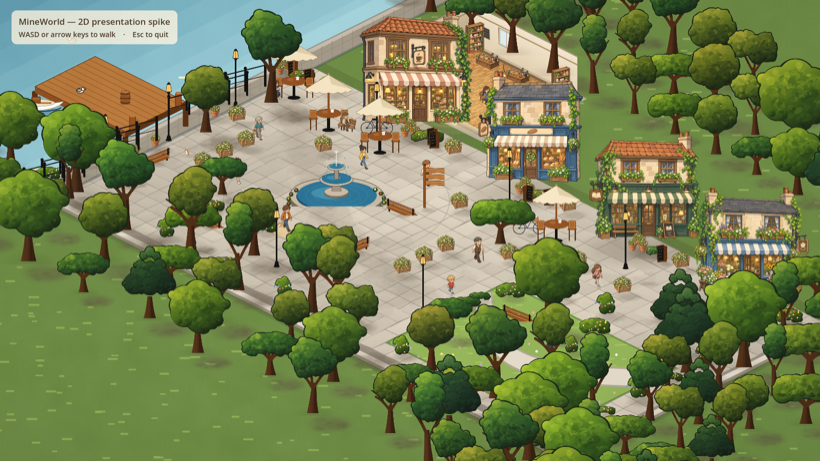
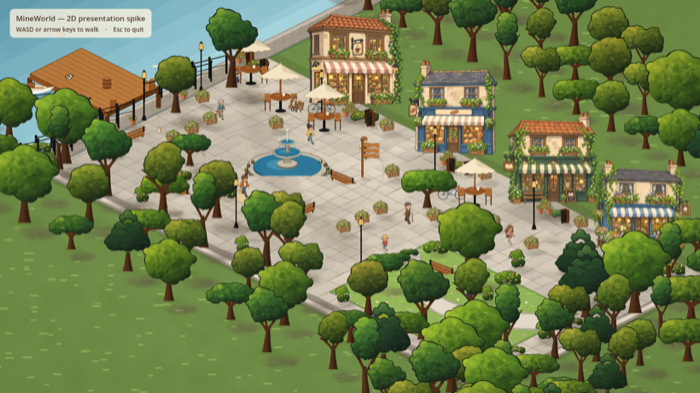
docs: the default 2D style is town (ARC-13)
The operator compared four complete scenes and chose `town`. ARC-13 records
that as ARC-11's decision taken rather than as a recommendation: what was
compared, what distinguishes the choice, and the weakness accepted along with
it.

What distinguishes it is written down so a later reader knows what was chosen
and not merely which name won — a warm key measurably close to the plates
(whole-frame mean 0.513 against 0.517, 4.0% below 0.20 luminance against 4.4%),
cherry blossom against the greens, a varied roofline, and building silhouettes
that differ from each other rather than repeating one mass. Its known weakness
is recorded too: four distinct tree sprites in the shared set, so repetition
shows at wide zoom, and the choice was made with that visible.

The record is explicit that this fixes the default and not the style system. A
World Pack still ships its own Presentation Pack and selects its own style
without touching this choice; nothing privileges `town` in the loader, the
contracts or the renderer bindings, and if a later change makes it hard to
replace then that change is the defect.

The other three variants stay. They are the demonstration that the presentation
layer swaps, which is the substance of ARC-11's split, and `--variant=` remains
the interface.

The spike README's register now states which variant is default and why, and
links onward rather than carrying the reasoning itself.
[…]

Changed region(s): [[0.54, 0.0305, 0.72, 0.3053]]

diff --git a/clients/2d-spike/README.md b/clients/2d-spike/README.md
@@ -1,48 +1,39 @@
 # MineWorld — 2D presentation spike
 
-A walkable slice of one quayside square, built so a human can look at it and
-answer one question: **is this MineWorld's default 2D presentation?**
+A walkable slice of one quayside square, built so a human could look at it and
+answer one question: **is this MineWorld's default 2D presentation?** It is —
+see below.
 
-> ## VIS-2D-1 READY FOR HUMAN STYLE REVIEW
+> ## The default 2D style is `town`
 >
-> Three **default-style candidates**, each complete and playable, **the café is
-> enterable in all of them**, and **the town is in motion** — the crowd walks
-> its routes and gait is driven by distance travelled, so cadence matches
-> speed and feet do not slide. Nothing here is an accepted look — per
-> `ARC-11` the default style is taste and the operator decides it, finally and
-> always. Subjective polishing on this branch has stopped so the target does
-> not move while it is being judged.
->
-> **Recommended candidate: `town`.** It measures closest to the plates on
-> overall key (mean 0.513 against the plate's 0.517, and 4.0% of the frame
-> below 0.20 luminance against 4.4%), and its buildings and planting carry the
-> density the plates have. Its one weakness is that the shared set has only
-> four distinct tree sprites, so repetition shows at wide zoom where `full`'s
-> nine procedural species do not.
+> The operator compared four complete scenes and chose `town`; it is the
+> default and no longer a candidate. What that means, and what distinguishes
+> it, is recorded in [`ARC-13`](../../docs/DECISIONS.md) — read that before
+> changing the look.
 >
 > ```
-> ./mineworld-2d                         the recommended candidate (town)
-> ./mineworld-2d --variant=town          generated cast + the shared asset set
-> ./mineworld-2d --variant=full          generated cast + generated shopfronts and flora
+> ./mineworld-2d                         the default (town)
+> ./mineworld-2d --variant=full          generated cast, shopfronts and flora generated here
 > ./mineworld-2d --variant=people        generated cast, procedural world
-> ./mineworld-2d --variant=procedural    the previous all-procedural build, for comparison
+> ./mineworld-2d --variant=procedural    the earlier all-procedural build
 > ```
+>
+> The other three are kept deliberately. They are the demonstration that the
+> presentation layer swaps, which is the point of
+> [`ARC-11`](../../docs/DECISIONS.md); `--variant=` is the interface, and a
+> change that can only be made to `town` is a change made in the wrong place.
+> This fixes the *default*, not the style system: a World Pack still ships its
+> own Presentation Pack and picks its own style without touching any of this.
 >
 > **Walk into the café.** It is at the left of the shop row; walk north through
-> the doorway and you are inside. There is no loading screen, no popup and no
-> scene change — the room occupies real world coordinates behind the frontage,
-> and the frontage lifts away once you are over the threshold, which is the
-> cutaway an isometric game normally uses. `--drive` checks this and reports
-> `entered=true ... max_step=0.0400 gaps=0`: uniform steps in and out, so the
-> transition is movement rather than a teleport.
+> the doorway and you are inside. No loading screen, no popup, no scene change
+> — the room occupies real world coordinates behind the frontage, and the
+> frontage lifts away once you are over the threshold.
 >
-> Walk around with WASD or the arrow keys. `--shots` writes stills per variant
-> into `shots/<variant>/`; `06_ref_framing.png` in each is framed to match
-> `references/02_cafe_street.png` so the comparison is like for like, and
-> `07_cafe_exterior` / `08_doorway` / `09_interior` are the three steps of
-> going inside.
->
-> The review question is which whole scene, not which asset.
+> Stills for all four variants are in `screenshots/`, rendered at one commit
+> and at matched framing, including one framed to
+> `references/02_cafe_street.png` so the comparison against the plates is like
+> for like.
 
 It is a spike. It requires no kernel changes, contains no semantics — no
 dialogue, no inventory, no networking, no `ActionIntent` — and invents no world

diff --git a/docs/DECISIONS.md b/docs/DECISIONS.md
@@ -923,3 +923,58 @@ enabled; nothing in MineWorld writes YAML, and if a `mineworld create` command e
 is a feature flag and not a new decision. Anchors, aliases and `!include` are supported by the crate
 and are deliberately not used by any pack — a World Pack an author can read is worth more than one
 that avoids repetition.
+
+---
+
+## ARC-13 — The default 2D style is `town`
+
+**Date** 2026-09-27
+
+[`ARC-11`](#arc-11--default-style-is-taste-style-infrastructure-is-architecture) separates the
+default style, which is taste and the operator's to decide, from the style infrastructure, which
+is architecture and proceeds autonomously. This record is that decision taken: **the operator
+compared four complete scenes and chose `town`.** It is no longer a candidate.
+
+**What was compared.** Four art variants of the same walkable square, identical in layout,
+projection, camera, crowd density and scene logic, differing only in which art each role
+resolves to:
+
+| Variant | Art |
+| --- | --- |
+| `town` | generated cast, plus the shared generated set — buildings, props, vegetation, ground |
+| `full` | generated cast, plus shopfronts and planted props generated for the spike |
+| `people` | generated cast over the procedural world |
+| `procedural` | the earlier all-procedural build, as the baseline |
+
+All four were rendered at one commit and at matched framing, including a still framed to
+`presentation/mineworld-default/2D/references/02_cafe_street.png` so the comparison against the
+plates is like for like. The sets are in `clients/2d-spike/screenshots/`, and
+`clients/2d-spike/README.md` gives the launch commands.
+
+**What distinguishes the choice.** `town` carries a warm overall key measurably close to the
+reference plates — whole-frame mean luminance 0.513 against the plates' 0.517, with 4.0% of the
+frame below 0.20 luminance against 4.4%. Beyond the numbers: cherry blossom against the greens,
+a varied roofline of terracotta, slate and tile, and building silhouettes that differ from one
+another rather than repeating one mass. It reads as a place with a history of being built in
+rather than a row of one shop.
+
+**Its known weakness, accepted.** The shared set has four distinct tree sprites, so repetition
+shows at wide zoom where `full`'s nine procedural species do not. The operator chose `town` with
+that visible.
+
+**The other three are kept.** They are not dead alternatives — they are the demonstration that
+the presentation layer is swappable, which is the substance of `ARC-11`'s split. `--variant=`
+remains the interface, and a change that can only be made to `town` is a change made in the
+wrong place.
+
+**This fixes the default, not the style system.** MineWorld must host anime, pixel, voxel,
+low-poly, photorealistic, retro, hand-painted and minimal styles
+([`ARC-11`](#arc-11--default-style-is-taste-style-infrastructure-is-architecture)). A World Pack
+ships its own Presentation Pack and selects its own style without touching this choice and
+without modifying the default pack; nothing here privileges `town` in the loader, the contracts
+or the renderer bindings. If a later change makes `town` hard to replace, that change is the
+defect, not this record.
+
+**Recorded because** "good enough" silently becoming "accepted" is the failure `ARC-11` exists to
+prevent, and the converse also needs a record: once the operator has chosen, an agent should not
+reopen the question as though it were still open.

diff --git a/clients/2d-spike/screenshots/README.md b/clients/2d-spike/screenshots/README.md
@@ -1,0 +1,12 @@
+# Stills
+
+All four variants at the same three framings, rendered from one commit so the
+comparison is like for like. `06_ref_framing` matches
+`presentation/mineworld-default/2D/references/02_cafe_street.png`.
+
+`town` is the accepted default ([`ARC-13`](../../../docs/DECISIONS.md)); the
+other three are kept as the demonstration that the presentation layer swaps.
+
+The `town_07`/`08`/`09` stills are the three steps of walking into the café,
+and `town_10_stride_a`/`_b` are two frames half a stride apart, which is where
+the walk cycle is visible.
